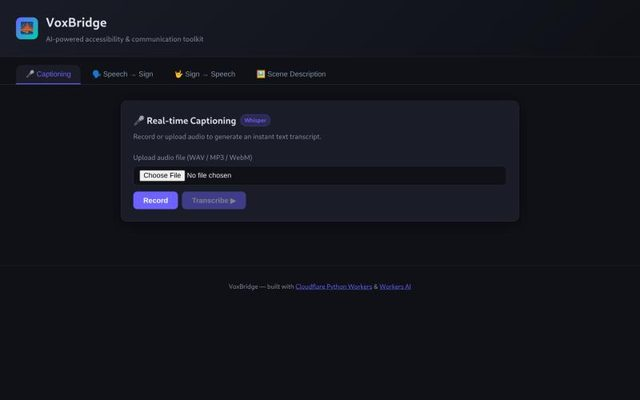
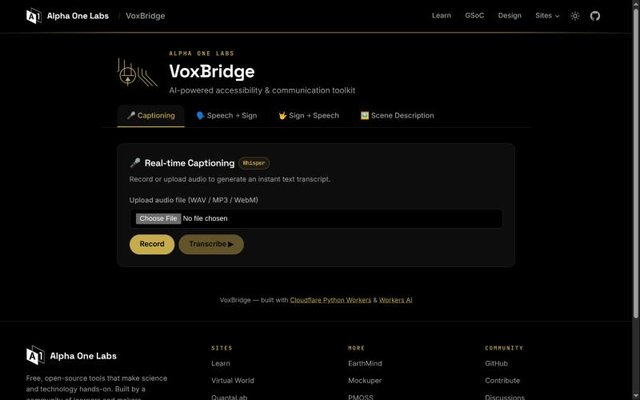
Refresh live-site screenshots and add the virtual world GIF
New screenshots of every site in the shared Alpha One Labs design, an
animated walk through the virtual world (now open to guests), EarthMind
with its working map and AI summary, and the design system link.

diff --git a/profile/README.md b/profile/README.md
@@ -29,43 +29,57 @@
 <table>
   <tr>
     <td width="50%" valign="top">
-      <a href="https://learn.alphaonelabs.com"><img src="https://raw.githubusercontent.com/alphaonelabs/.github/main/profile/assets/sites/learn.jpg?v=2" alt="Learn screenshot" width="100%"></a>
+      <a href="https://learn.alphaonelabs.com"><img src="https://raw.githubusercontent.com/alphaonelabs/.github/main/profile/assets/sites/learn.jpg?v=2" alt="Learn" width="100%"></a>
       <h3><a href="https://learn.alphaonelabs.com">Learn</a></h3>
       Our learning platform: browse activities, join live virtual classrooms, take quizzes and earn certificates.<br>
       <sub><a href="https://github.com/alphaonelabs/website/tree/main/learn"><code>learn/</code></a> · <a href="https://learn.alphaonelabs.com">learn.alphaonelabs.com</a></sub>
     </td>
     <td width="50%" valign="top">
-      <a href="https://gsoc.alphaonelabs.com"><img src="https://raw.githubusercontent.com/alphaonelabs/.github/main/profile/assets/sites/gsoc.jpg?v=2" alt="GSoC screenshot" width="100%"></a>
-      <h3><a href="https://gsoc.alphaonelabs.com">GSoC</a></h3>
-      Google Summer of Code at Alpha One Labs: how to start, the contributor leaderboard and the 2027 project ideas.<br>
+      <a href="https://gsoc.alphaonelabs.com"><img src="https://raw.githubusercontent.com/alphaonelabs/.github/main/profile/assets/sites/gsoc.jpg?v=2" alt="GSoC 2027" width="100%"></a>
+      <h3><a href="https://gsoc.alphaonelabs.com">GSoC 2027</a></h3>
+      Google Summer of Code with us: ten project ideas, how to start, and the season leaderboards.<br>
       <sub><a href="https://github.com/alphaonelabs/website/tree/main/gsoc"><code>gsoc/</code></a> · <a href="https://gsoc.alphaonelabs.com">gsoc.alphaonelabs.com</a></sub>
     </td>
   </tr>
   <tr>
     <td width="50%" valign="top">
-      <a href="https://quantalab.alphaonelabs.com"><img src="https://raw.githubusercontent.com/alphaonelabs/.github/main/profile/assets/sites/quantalab.jpg?v=2" alt="QuantaLab screenshot" width="100%"></a>
-      <h3><a href="https://quantalab.alphaonelabs.com">QuantaLab</a></h3>
-      A virtual science lab for physics, chemistry and biology experiments, with an AI mentor at your side.<br>
-      <sub><a href="https://github.com/alphaonelabs/website/tree/main/quantalab"><code>quantalab/</code></a> · <a href="https://quantalab.alphaonelabs.com">quantalab.alphaonelabs.com</a></sub>
+      <a href="https://virtual.alphaonelabs.com"><img src="https://raw.githubusercontent.com/alphaonelabs/.github/main/profile/assets/sites/virtual.gif?v=2" alt="Virtual World" width="100%"></a>
+      <h3><a href="https://virtual.alphaonelabs.com">Virtual World</a></h3>
+      A 3D world built with three.js. Walk up to a portal and step into a live classroom. Explore as a guest, no sign-in needed.<br>
+      <sub><a href="https://github.com/alphaonelabs/website/tree/main/virtual"><code>virtual/</code></a> · <a href="https://virtual.alphaonelabs.com">virtual.alphaonelabs.com</a></sub>
     </td>
     <td width="50%" valign="top">
-      <a href="https://botlab.alphaonelabs.com"><img src="https://raw.githubusercontent.com/alphaonelabs/.github/main/profile/assets/sites/botlab.jpg?v=2" alt="BotLab screenshot" width="100%"></a>
-      <h3><a href="https://botlab.alphaonelabs.com">BotLab</a></h3>
-      A robotics simulation playground: build, configure and test robots with real-time physics, in 2D and 3D.<br>
-      <sub><a href="https://github.com/alphaonelabs/website/tree/main/botlab"><code>botlab/</code></a> · <a href="https://botlab.alphaonelabs.com">botlab.alphaonelabs.com</a></sub>
+      <a href="https://quantalab.alphaonelabs.com"><img src="https://raw.githubusercontent.com/alphaonelabs/.github/main/profile/assets/sites/quantalab.jpg?v=2" alt="QuantaLab" width="100%"></a>
+      <h3><a href="https://quantalab.alphaonelabs.com">QuantaLab</a></h3>
+      A virtual science lab for physics, chemistry and biology, with an AI mentor that explains what you see.<br>
+      <sub><a href="https://github.com/alphaonelabs/website/tree/main/quantalab"><code>quantalab/</code></a> · <a href="https://quantalab.alphaonelabs.com">quantalab.alphaonelabs.com</a></sub>
     </td>
   </tr>
   <tr>
     <td width="50%" valign="top">
-      <a href="https://voxbridge.alphaonelabs.com"><img src="https://raw.githubusercontent.com/alphaonelabs/.github/main/profile/assets/sites/voxbridge.jpg?v=2" alt="VoxBridge screenshot" width="100%"></a>
+      <a href="https://botlab.alphaonelabs.com"><img src="https://raw.githubusercontent.com/alphaonelabs/.github/main/profile/assets/sites/botlab.jpg?v=2" alt="BotLab" width="100%"></a>
+      <h3><a href="https://botlab.alphaonelabs.com">BotLab</a></h3>
+      A robotics playground: build, configure and test robots with real-time physics, in 2D and 3D.<br>
+      <sub><a href="https://github.com/alphaonelabs/website/tree/main/botlab"><code>botlab/</code></a> · <a href="https://botlab.alphaonelabs.com">botlab.alphaonelabs.com</a></sub>
+    </td>
+    <td width="50%" valign="top">
+      <a href="https://earthmind.alphaonelabs.com"><img src="https://raw.githubusercontent.com/alphaonelabs/.github/main/profile/assets/sites/earthmind.jpg?v=2" alt="EarthMind" width="100%"></a>
+      <h3><a href="https://earthmind.alphaonelabs.com">EarthMind</a></h3>
+      Environmental monitoring with live maps, anomaly alerts and AI summaries of sensor data.<br>
+      <sub><a href="https://github.com/alphaonelabs/website/tree/main/earthmind"><code>earthmind/</code></a> · <a href="https://earthmind.alphaonelabs.com">earthmind.alphaonelabs.com</a></sub>
+    </td>
+  </tr>
+  <tr>
+    <td width="50%" valign="top">
+      <a href="https://voxbridge.alphaonelabs.com"><img src="https://raw.githubusercontent.com/alphaonelabs/.github/main/profile/assets/sites/voxbridge.jpg?v=2" alt="VoxBridge" width="100%"></a>
       <h3><a href="https://voxbridge.alphaonelabs.com">VoxBridge</a></h3>
       AI accessibility tools: live captioning, speech-to-sign, sign-to-speech and scene description.<br>
       <sub><a href="https://github.com/alphaonelabs/website/tree/main/voxbridge"><code>voxbridge/</code></a> · <a href="https://voxbridge.alphaonelabs.com">voxbridge.alphaonelabs.com</a></sub>
     </td>
     <td width="50%" valign="top">
-      <a href="https://mockuper.alphaonelabs.com"><img src="https://raw.githubusercontent.com/alphaonelabs/.github/main/profile/assets/sites/mockuper.jpg?v=2" alt="Mockuper screenshot" width="100%"></a>
+      <a href="https://mockuper.alphaonelabs.com"><img src="https://raw.githubusercontent.com/alphaonelabs/.github/main/profile/assets/sites/mockuper.jpg?v=2" alt="Mockuper" width="100%"></a>
       <h3><a href="https://mockuper.alphaonelabs.com">Mockuper</a></h3>
-      A wireframe studio for quick, clean mockups, with pages, components and versions.<br>
+      A wireframe studio for quick, clean mockups, with pages, components and exports.<br>
       <sub><a href="https://github.com/alphaonelabs/website/tree/main/mockuper"><code>mockuper/</code></a> · <a href="https://mockuper.alphaonelabs.com">mockuper.alphaonelabs.com</a></sub>
     </td>
   </tr>
@@ -73,9 +87,8 @@
 
 <p align="center">
   <b>Also live:</b>
-  <a href="https://virtual.alphaonelabs.com">🌍 Virtual World</a> ·
-  <a href="https://earthmind.alphaonelabs.com">🌱 EarthMind</a> ·
-  <a href="https://pmoss.alphaonelabs.com">📋 PMOSS</a>
+  <a href="https://pmoss.alphaonelabs.com">📋 PMOSS</a> ·
+  <a href="https://design.alphaonelabs.com">🎨 Design system</a>, the A1 mark, colors, components and maker art every site is built on
 </p>
 
 <br>
